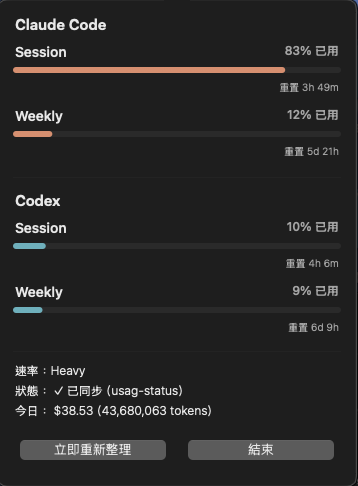
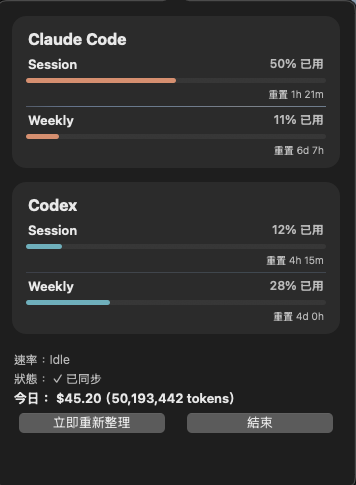
Redesign popover with inset Claude / Codex cards
Wrap each provider section in a subtle rounded inset card so the two
quota pairs read as grouped units instead of a flat list. Refines
spacing, font weights, and footer color hierarchy to match.

Card fill / separator colors adapt to Dark and Light appearance via
effectiveAppearance().

Replaces docs/popover.png with a screenshot of the new look (mock data,
matches the README convention).

diff --git a/menubar.py b/menubar.py
@@ -42,7 +42,17 @@ from usage_rate import GROUP_NAMES, UsageRateTracker
 POPOVER_WIDTH = 360.0
 CONTENT_HEIGHT = 488.0
 PADDING = 16.0
-TRACK_HEIGHT = 6.0
+TRACK_HEIGHT = 5.0
+CARD_HEIGHT = 152.0
+CARD_RADIUS = 14.0
+CARD_HEADER_TOP = 14.0
+CARD_ROW_TOP = 40.0
+CARD_ROW_GAP = 56.0
+CARD_SIDE_INSET = 14.0
+SECTION_GAP = 14.0
+FOOTER_GAP = 18.0
+FOOTER_LINE_GAP = 19.0
+BUTTON_TOP_GAP = 20.0
 CLAUDE_COLOR = (217 / 255, 119 / 255, 87 / 255)
 CODEX_COLOR = (73 / 255, 163 / 255, 176 / 255)
 
@@ -168,8 +178,8 @@ class QuotaRowView(NSView):
         width = self.bounds().size.width
         self.title_label.setFrame_(NSMakeRect(0, 0, width * 0.48, 18))
         self.percent_label.setFrame_(NSMakeRect(width * 0.48, 0, width * 0.52, 18))
-        self.progress_bar.setFrame_(NSMakeRect(0, 24, width, TRACK_HEIGHT))
-        self.reset_label.setFrame_(NSMakeRect(0, 38, width, 14))
+        self.progress_bar.setFrame_(NSMakeRect(0, 22, width, TRACK_HEIGHT))
+        self.reset_label.setFrame_(NSMakeRect(0, 32, width, 14))
 
     def setRowState_(self, row: QuotaRowState) -> None:
         self.title_label.setStringValue_(row.title)
@@ -207,11 +217,11 @@ class PopoverContentView(NSView):
         self.claude_weekly = QuotaRowView.alloc().initWithFrame_(NSMakeRect(0, 0, 1, 56))
         self.codex_session = QuotaRowView.alloc().initWithFrame_(NSMakeRect(0, 0, 1, 56))
         self.codex_weekly = QuotaRowView.alloc().initWithFrame_(NSMakeRect(0, 0, 1, 56))
-        self.rate_label = _label("速率：--", _regular_font(12), NSColor.labelColor())
-        self.status_label = _label("狀態：載入中", _regular_font(12), NSColor.labelColor())
+        self.rate_label = _label("速率：--", _regular_font(12), _muted_label_color())
+        self.status_label = _label("狀態：載入中", _regular_font(12), _muted_label_color())
         self.today_label = _label(
             "今日：$0.00（0 tokens）",
-            _regular_font(12),
+            _medium_font(),
             NSColor.labelColor(),
         )
         self.refresh_button = _button("立即重新整理", delegate, "refreshNow:")
@@ -239,30 +249,48 @@ class PopoverContentView(NSView):
     def layout(self) -> None:
         width = self.bounds().size.width
         content_width = width - (PADDING * 2)
-        y = PADDING
+        card_width = content_width
+        card_content_width = card_width - (CARD_SIDE_INSET * 2)
+        claude_y = PADDING
+        codex_y = claude_y + CARD_HEIGHT + SECTION_GAP
 
-        self.claude_header.setFrame_(NSMakeRect(PADDING, y, content_width, 16))
-        y += 28
-        self.claude_session.setFrame_(NSMakeRect(PADDING, y, content_width, 56))
-        y += 64
-        self.claude_weekly.setFrame_(NSMakeRect(PADDING, y, content_width, 56))
-        y += 64
-        y += 20
+        self.claude_header.setFrame_(
+            NSMakeRect(PADDING + CARD_SIDE_INSET, claude_y + CARD_HEADER_TOP, card_content_width, 18),
+        )
+        self.claude_session.setFrame_(
+            NSMakeRect(PADDING + CARD_SIDE_INSET, claude_y + CARD_ROW_TOP, card_content_width, 50),
+        )
+        self.claude_weekly.setFrame_(
+            NSMakeRect(
+                PADDING + CARD_SIDE_INSET,
+                claude_y + CARD_ROW_TOP + CARD_ROW_GAP,
+                card_content_width,
+                50,
+            ),
+        )
 
-        self.codex_header.setFrame_(NSMakeRect(PADDING, y, content_width, 16))
-        y += 28
-        self.codex_session.setFrame_(NSMakeRect(PADDING, y, content_width, 56))
-        y += 64
-        self.codex_weekly.setFrame_(NSMakeRect(PADDING, y, content_width, 56))
-        y += 64
-        y += 16
+        self.codex_header.setFrame_(
+            NSMakeRect(PADDING + CARD_SIDE_INSET, codex_y + CARD_HEADER_TOP, card_content_width, 18),
+        )
+        self.codex_session.setFrame_(
+            NSMakeRect(PADDING + CARD_SIDE_INSET, codex_y + CARD_ROW_TOP, card_content_width, 50),
+        )
+        self.codex_weekly.setFrame_(
+            NSMakeRect(
+                PADDING + CARD_SIDE_INSET,
+                codex_y + CARD_ROW_TOP + CARD_ROW_GAP,
+                card_content_width,
+                50,
+            ),
+        )
 
+        y = codex_y + CARD_HEIGHT + FOOTER_GAP
         self.rate_label.setFrame_(NSMakeRect(PADDING, y, content_width, 17))
-        y += 20
+        y += FOOTER_LINE_GAP
         self.status_label.setFrame_(NSMakeRect(PADDING, y, content_width, 17))
-        y += 20
-        self.today_label.setFrame_(NSMakeRect(PADDING, y, content_width, 17))
-        y += 34
+        y += FOOTER_LINE_GAP
+        self.today_label.setFrame_(NSMakeRect(PADDING, y, content_width, 18))
+        y += BUTTON_TOP_GAP
 
         button_width = (content_width - 8) / 2
         self.refresh_button.setFrame_(NSMakeRect(PADDING, y, button_width, 28))
@@ -271,15 +299,25 @@ class PopoverContentView(NSView):
     def drawRect_(self, dirty_rect: Any) -> None:
         NSColor.controlBackgroundColor().setFill()
         NSRectFill(self.bounds())
+        content_width = self.bounds().size.width - (PADDING * 2)
+        claude_rect = NSMakeRect(PADDING, PADDING, content_width, CARD_HEIGHT)
+        codex_rect = NSMakeRect(PADDING, PADDING + CARD_HEIGHT + SECTION_GAP, content_width, CARD_HEIGHT)
 
-        width = self.bounds().size.width - (PADDING * 2)
-        # Claude 區結束 y=164、Codex header 起點 y=192 → 中間 178
-        first_y = 178
-        # Codex 區結束 y=340、rate_label 起點 y=364 → 中間 352
-        second_y = 352
-        NSColor.separatorColor().setFill()
-        for y in (first_y, second_y):
-            NSRectFill(NSMakeRect(PADDING, y, width, 1))
+        _card_fill_color_for_view(self).setFill()
+        _fill_rounded_rect(claude_rect, CARD_RADIUS)
+        _fill_rounded_rect(codex_rect, CARD_RADIUS)
+
+        _card_separator_color_for_view(self).setFill()
+        for card_rect in (claude_rect, codex_rect):
+            separator_y = card_rect.origin.y + CARD_ROW_TOP + CARD_ROW_GAP - 6
+            NSRectFill(
+                NSMakeRect(
+                    card_rect.origin.x + CARD_SIDE_INSET,
+                    separator_y,
+                    card_rect.size.width - (CARD_SIDE_INSET * 2),
+                    1,
+                ),
+            )
 
     def setState_(self, state: PopoverState) -> None:
         self.claude_session.setRowState_(state.claude_session)
@@ -289,8 +327,9 @@ class PopoverContentView(NSView):
         self.rate_label.setStringValue_(state.rate_text)
         self.status_label.setStringValue_(state.status_text)
         self.today_label.setStringValue_(state.today_text)
-        for label in (self.rate_label, self.status_label, self.today_label):
-            label.setTextColor_(NSColor.labelColor())
+        self.rate_label.setTextColor_(_muted_label_color())
+        self.status_label.setTextColor_(_muted_label_color())
+        self.today_label.setTextColor_(NSColor.labelColor())
         self.setNeedsDisplay_(True)
 
 
@@ -622,11 +661,11 @@ def _button(title: str, target: Any, action: str) -> NSButton:
 
 
 def _semibold_font() -> NSFont:
-    return NSFont.systemFontOfSize_weight_(15, 0.3)
+    return NSFont.systemFontOfSize_weight_(16, 0.32)
 
 
 def _medium_font() -> NSFont:
-    return NSFont.systemFontOfSize_weight_(14, 0.23)
+    return NSFont.systemFontOfSize_weight_(13, 0.24)
 
 
 def _regular_font(size: float) -> NSFont:
@@ -634,7 +673,21 @@ def _regular_font(size: float) -> NSFont:
 
 
 def _muted_label_color() -> NSColor:
-    return NSColor.labelColor().colorWithAlphaComponent_(0.6)
+    return NSColor.labelColor().colorWithAlphaComponent_(0.68)
+
+
+def _card_fill_color_for_view(view: NSView) -> NSColor:
+    name = view.effectiveAppearance().name() or ""
+    if "Dark" in name:
+        return NSColor.whiteColor().colorWithAlphaComponent_(0.06)
+    return NSColor.blackColor().colorWithAlphaComponent_(0.045)
+
+
+def _card_separator_color_for_view(view: NSView) -> NSColor:
+    name = view.effectiveAppearance().name() or ""
+    if "Dark" in name:
+        return NSColor.whiteColor().colorWithAlphaComponent_(0.075)
+    return NSColor.blackColor().colorWithAlphaComponent_(0.08)
 
 
 def _track_color_for_view(view: NSView) -> NSColor: